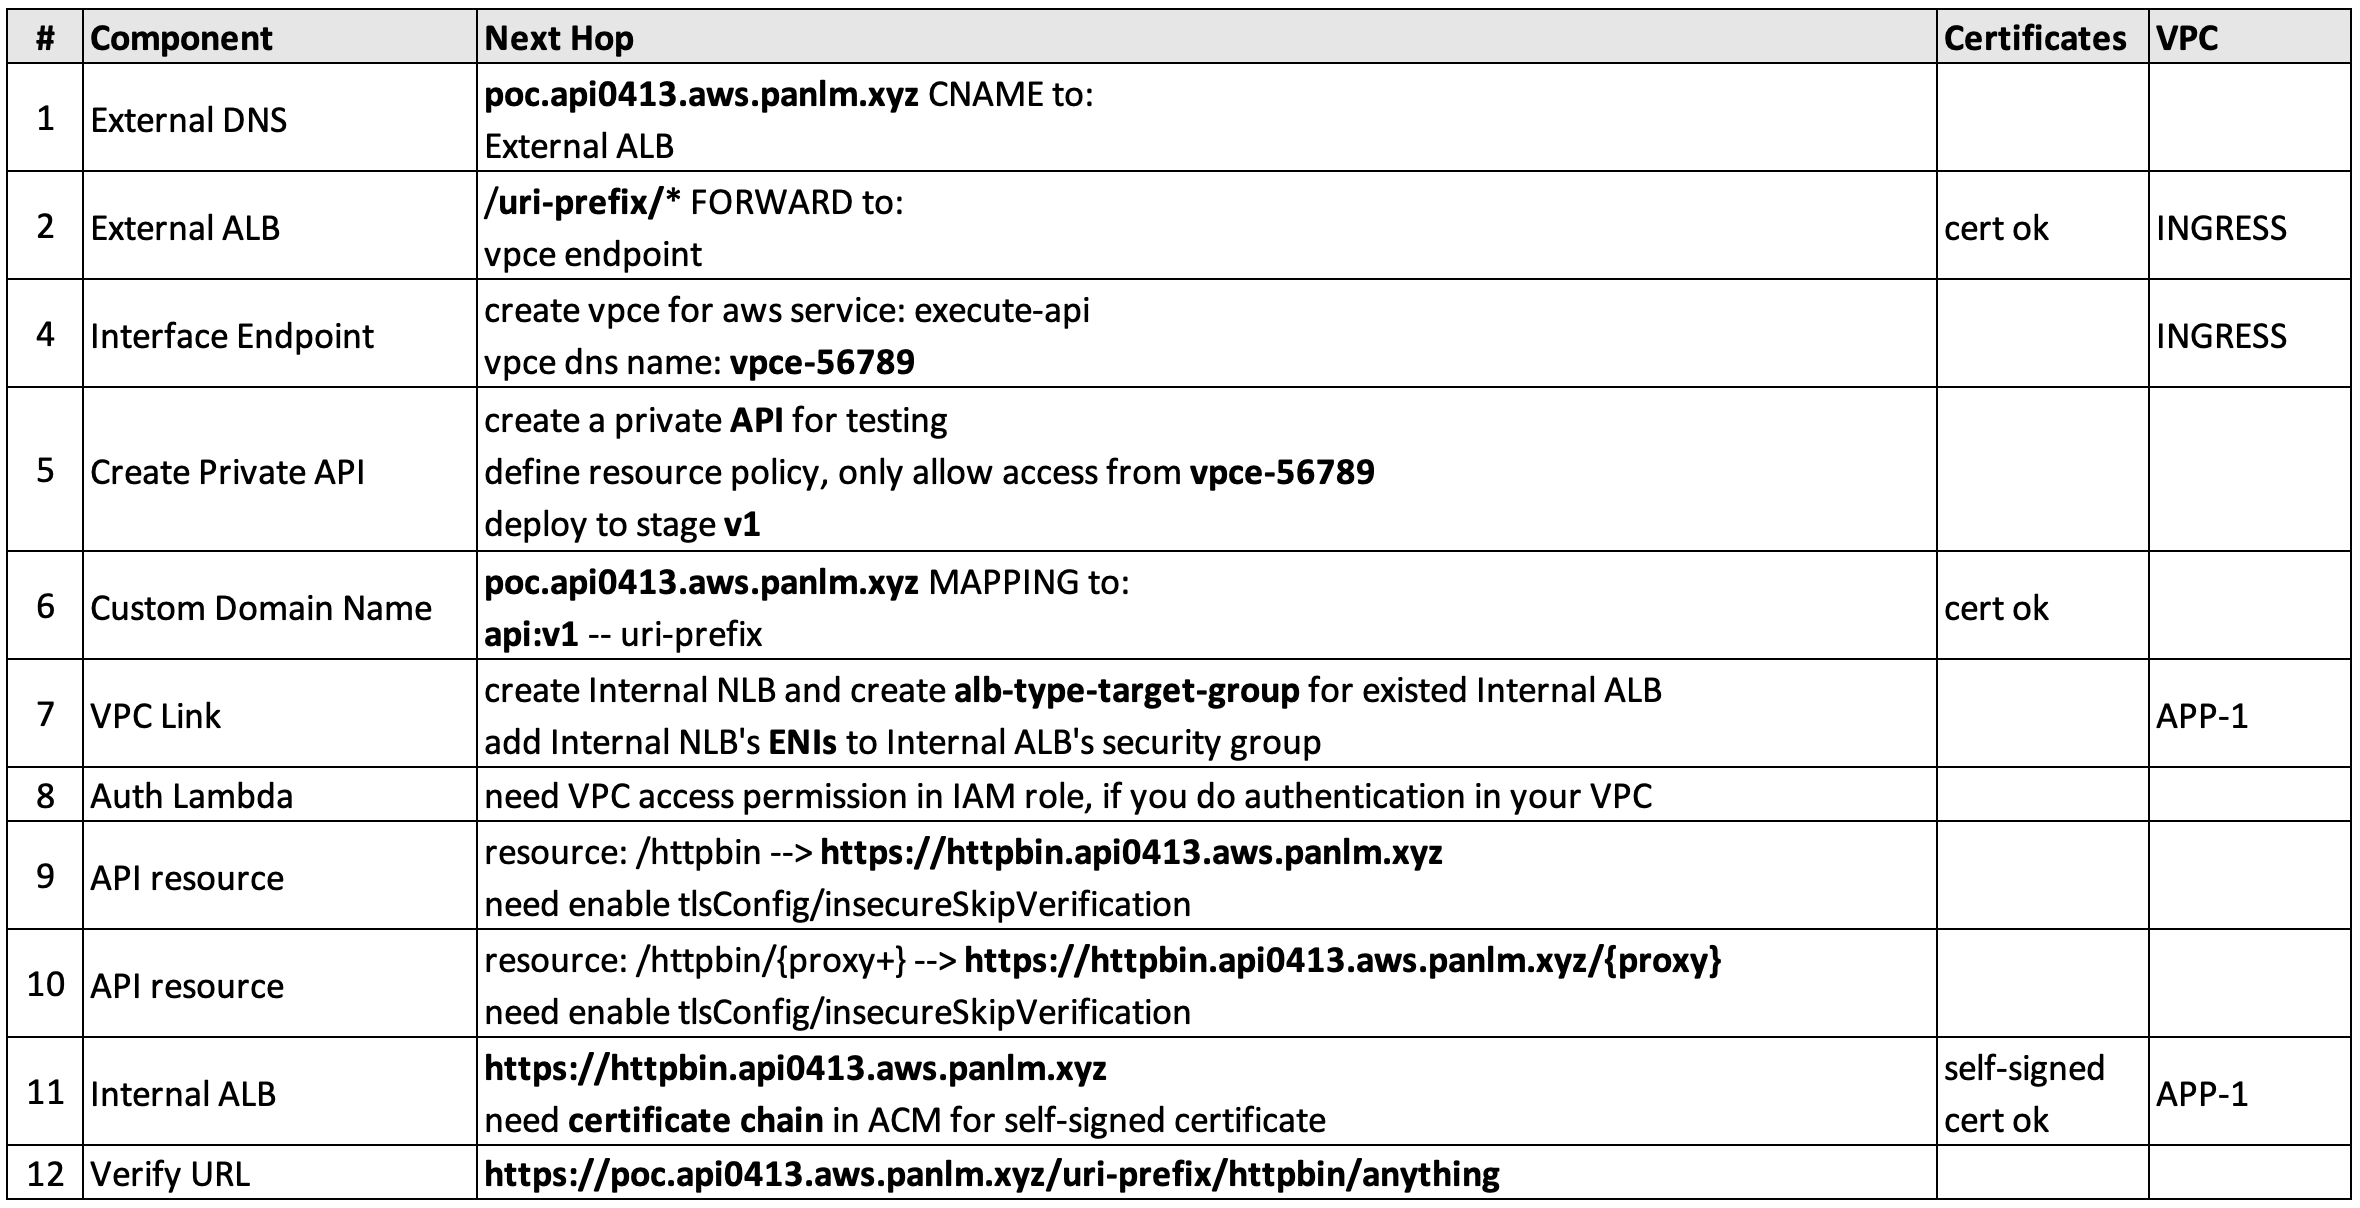
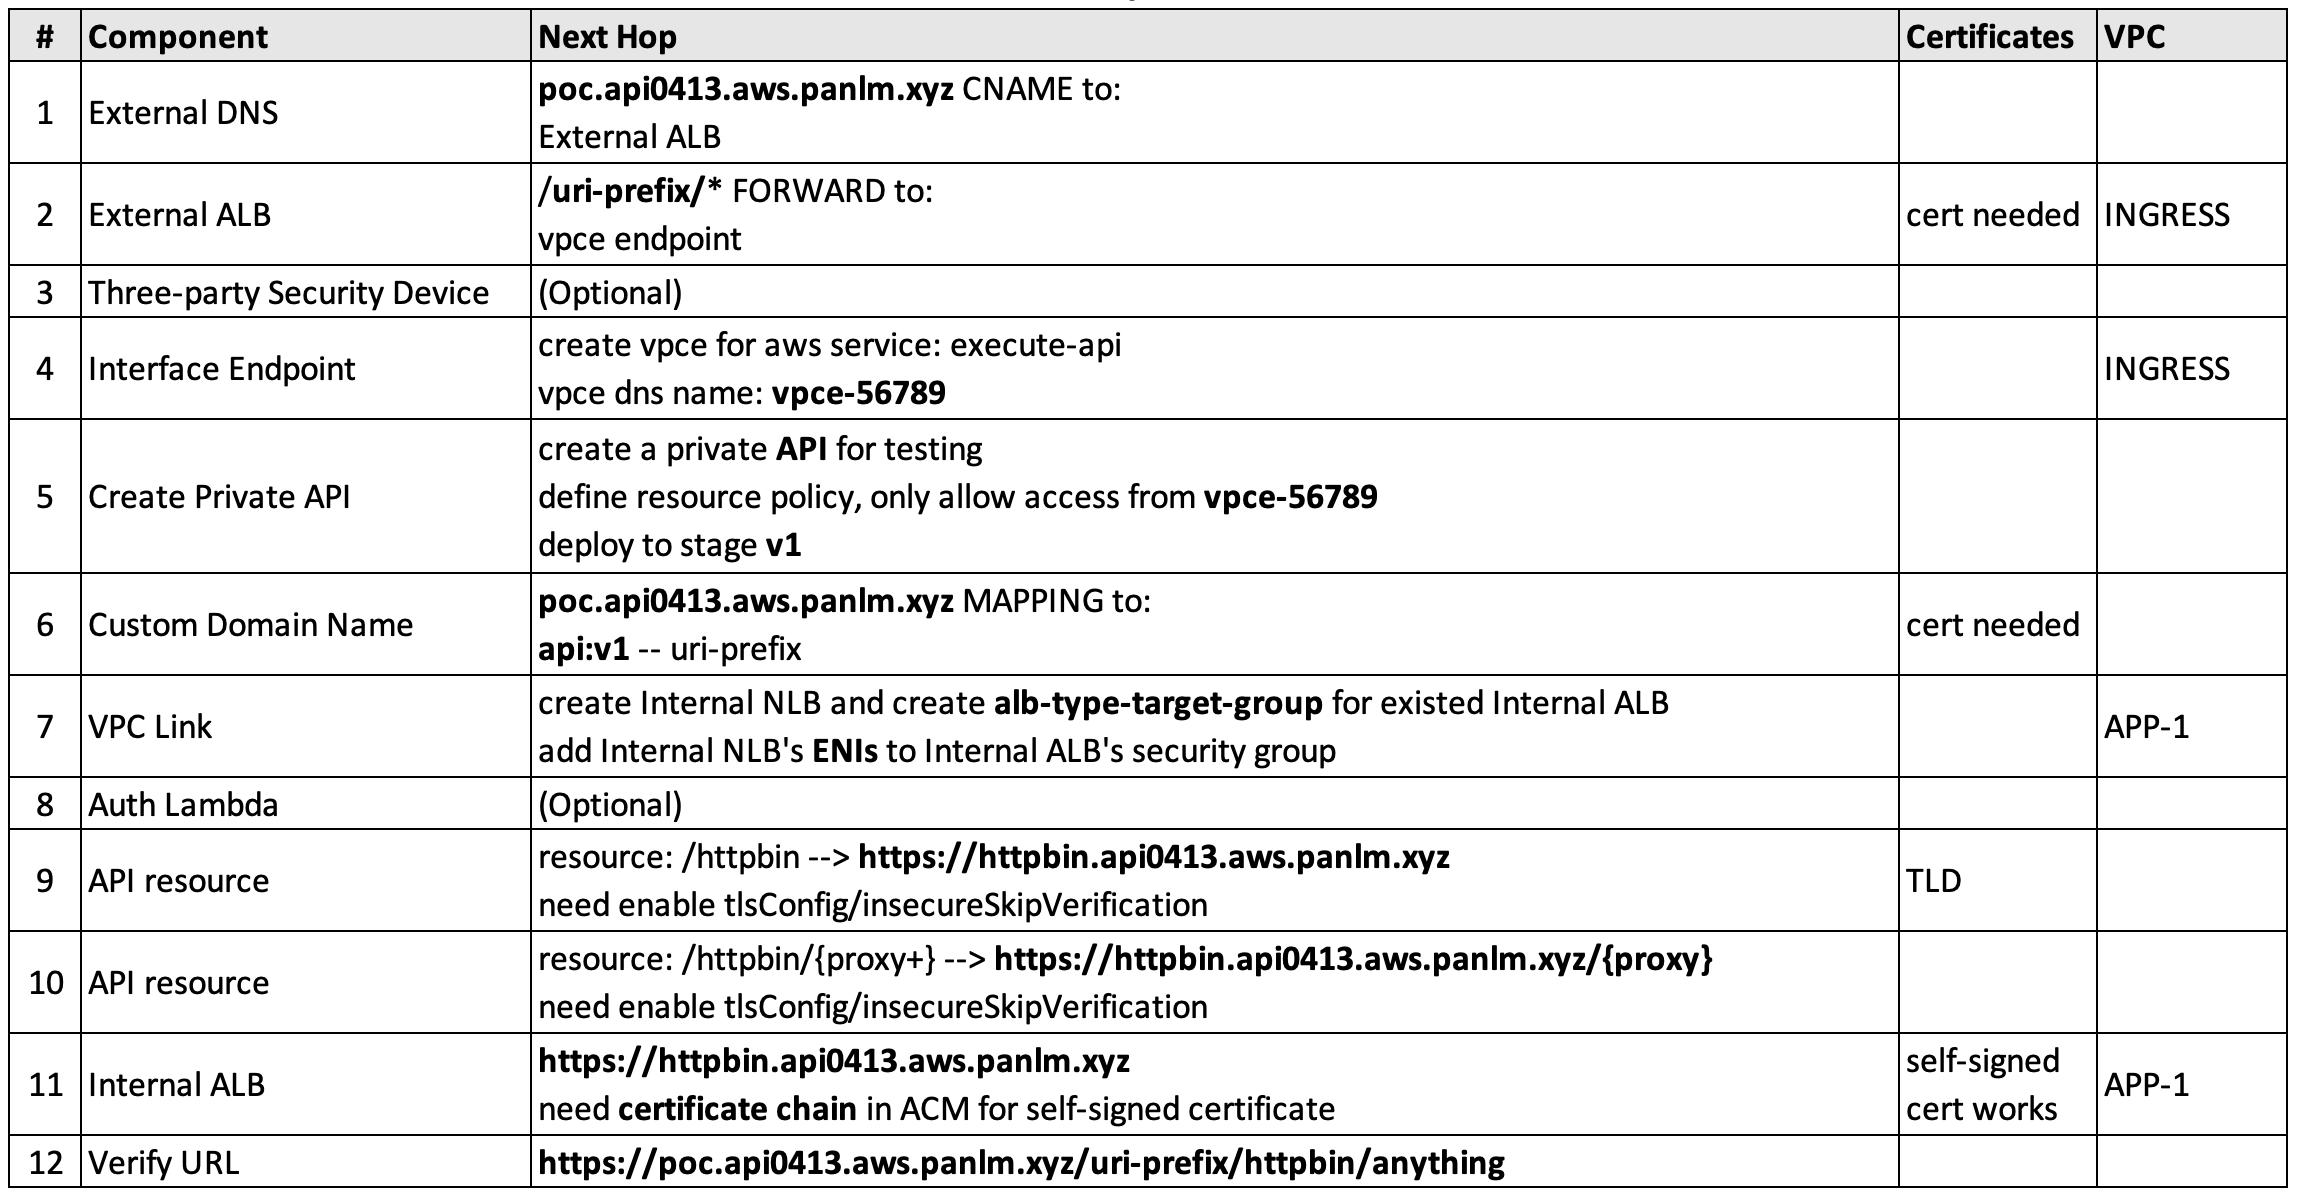
release blog for 2nd scenario

diff --git a/TC-private-apigw-dataflow-en.md b/TC-private-apigw-dataflow-en.md
@@ -85,7 +85,7 @@ Let's go through the components and configuration details when the requests proc
 
 - 1 - On the DNS server, resolve the test domain name `poc.api0413.aws.panlm.xyz` to the External ALB;
 - 2 - Put a certificate issued by a public CA (public certificate for short) on the External ALB and specified path rules for requests forwarding;
-- 3 - (Optional) Here, security devices can be equipped for traffic protection. For example, the previous step forwards the request to the specific port of the security appliance, and the rules corresponding to that port will filter all incoming traffic, then continue forwarding the request to the next step, which is API Gateway's VPC Endpoint;
+- 3 - (Optional) Here, security devices can be equipped for traffic protection (reference [here](fake-waf-on-ec2-forwarding-https.md) for configuration). For example, the previous step forwards the request to the specific port of the security appliance, and the rules corresponding to that port will filter all incoming traffic, then continue forwarding the request to the next step, which is API Gateway's VPC Endpoint;
 - 4 - Create a VPC endpoint for API Gateway and disable `Enable private DNS names`;
 - 5 - Create a private API, configure a resource policy, then deploy the API to stage `v1`. The stage name will be used as part of the mapping in the next step;
 - 6 - To create a custom domain name, you need to match the test domain name `poc.api0413.aws.panlm.xyz` and have a certificate for that domain name in ACM. Create mapping and map the domain name to a specific stage. If the request URL has path pattern, you need to fill in as well;
@@ -120,9 +120,9 @@ The latest version of the code covered in this article can be obtained from [Git
 This article uses an AWS Global account to set up in region us-east-2. Follow these steps to create the relevant resources.
 
 #### Prepare AWS Cloud9 Environment
-([link](http://aws-labs.panlm.xyz/20-cloud9/setup-cloud9-for-eks.html))
+(check [here](http://aws-labs.panlm.xyz/20-cloud9/setup-cloud9-for-eks.html) for latest version)
 
--  open [link](https://console.aws.amazon.com/cloudshell) cloudshell, and then execute following code to create cloud9 environment
+-  open [link](https://us-east-2.console.aws.amazon.com/cloudshell) cloudshell, and then execute following code to create cloud9 environment
 ```sh
 # name=<give your cloud9 a name>
 datestring=$(date +%Y%m%d-%H%M)
@@ -558,10 +558,11 @@ kubectl get deployment -n kube-system aws-load-balancer-controller
 	- 确保使用正确的 Region  (ensure region is correct)
 	- 确保上游域名已存在，本例中将创建 `api0413.aws.panlm.xyz` 域名，因此确保 `aws.panlm.xyz` 已存在 (ensure upstream domain registrar is existed. In this blog, we will create `api0413.aws.panlm.xyz` hosted zone, you need ensure `aws.panlm.xyz` is existed)
 ```sh
-echo ${CLUSTER_NAME}
-echo ${AWS_REGION}
 DOMAIN_NAME=api0413.aws.panlm.xyz
 EXTERNALDNS_NS=externaldns
+
+echo ${CLUSTER_NAME}
+echo ${AWS_REGION}
 export AWS_PAGER=""
 
 # create namespace if it does not yet exist

diff --git a/README.md b/README.md
@@ -3,10 +3,10 @@
 
 第一个场景我们描述使用 API Gateway 替换现有第三方商用 API Gateway 产品并与现有其他安全设备联动实现安全的应用发布。
 
-### aws blog version (20230508)
+### aws blog (released: 2023/05/08)
 - https://aws.amazon.com/cn/blogs/china/private-api-gateway-in-enterprise-scenarios/
 
-### github version (20230820)
+### github (updated: 2023/08/20)
 - [Private API Scenarios in Enterprise Customers（中文版）](TC-private-apigw-dataflow.md)
 - [Private API Scenarios in Enterprise Customers （English）](TC-private-apigw-dataflow-en.md)
 
@@ -17,9 +17,12 @@
 
 ## 私有 API 在企业场景中的应用 - 跨环境访问
 
-第二个场景我们使用 API Gateway 替换已有的内网 Nginx 实现跨环境访问
+第二个场景我们使用 NLB/ALB + API Gateway Endpoint 实现跨环境访问
 
-### github version (20230810)
+### aws blog (released: 2023/08/24)
+- https://aws.amazon.com/cn/blogs/china/private-api-gateway-in-enterprise-scenarios-2/
+
+### github (updated: 2023/08/10)
 - [Using Private API to control cross environment traffic ](TC-private-api-cross-environment-traffic.md)
 
 
